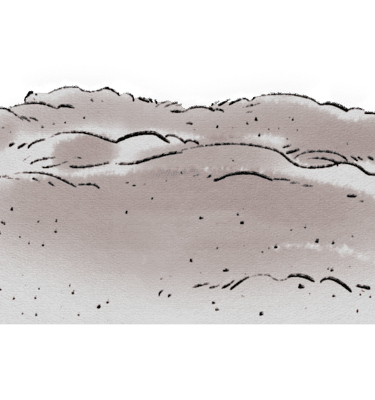
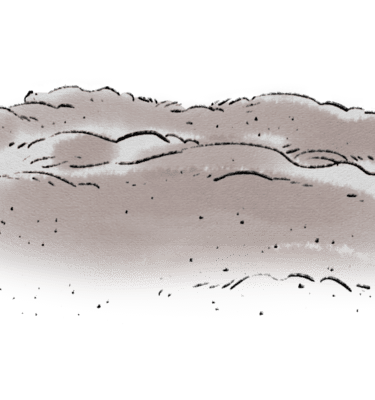
目前进度 分层取糟

diff --git a/assets/js/main.js b/assets/js/main.js
@@ -194,6 +194,13 @@ function main() {
                 id: 'jiaochixuanze' + i
             })
         }
+        for (var i = 0; i < 24; i++) {
+            manifest.push({
+                src: ossURL + "wannianzao/wannianzao" + i + ".png",
+                id: 'wannianzao_img' + i
+            })
+        }
+
     }
 
     //开始预加载
@@ -239,7 +246,7 @@ function main() {
 
         loadingH.gotoAndPlay("run" + parseInt((preload.progress * 100 | 0) / 10))
 
-        loadingS.y = (canvas.height - loadingS_animate._frameHeight * proportion) / 2 + (130 - (preload.progress * 80 | 0)) * proportion;
+        loadingS.y = (canvas.height - loadingS_animate._frameHeight * proportion) / 2 + (130 * proportion - (preload.progress * 80 | 0)) * proportion;
 
         // stage.addChild(background, pagebackground, pageTop, pageBottom)
         loadingContainer.addChild(loadingBeizi, loadingH, loadingS, loadingX, progressText);
@@ -812,7 +819,7 @@ function main() {
 
         var wentiText = new createjs.Text("点击选择正确的浓香窖池", "56px Arial", "#000");
         wentiText.x = (canvas.width - wentiText.getMeasuredWidth()) / 2;
-        wentiText.y = 9100;
+        wentiText.y = 9050;
         wentiText.shadow = new createjs.Shadow("#fff", 0, 0, 5);
         wentiText.alpha = 0;
 
@@ -862,12 +869,110 @@ function main() {
         next.y = 9700
         next.alpha = 0
 
-        var wanniancao = new createjs.Sprite(nongjiangchi_animate, "end");
-        wanniancao.scaleX = proportion;
-        wanniancao.scaleY = proportion;
-        wanniancao.x = (canvas.width - nongjiangchi_animate._frameWidth * proportion) / 2;
-        wanniancao.y = 9200;
-        wanniancao.framerate = 19;
+        /**
+         * 万年槽
+         */
+        var wannianzao_img = new Array();
+        for (var i = 0; i < 24; i++) {
+            wannianzao_img[i] = preload.getResult("wannianzao_img" + i);
+        }
+        var wannianzao_animate = new createjs.SpriteSheet({
+            "images": wannianzao_img,
+            "frames": {
+                width: 375,
+                height: 205,
+                spacing: 0,
+                count: 24
+            },
+            "animations": {
+                start: [0],
+                run: [0, 10, 'end', 0.3],
+                end: [10],
+                run2: [10, 21, 'end2', 0.3],
+                end2: [21],
+                run3: [21, 23, 'end3', 0.3],
+                end3: [23]
+            },
+            "framerate": 24
+        });
+        var wannianzao = new createjs.Sprite(wannianzao_animate, "start");
+        wannianzao.scaleX = proportion;
+        wannianzao.scaleY = proportion;
+        wannianzao.x = (canvas.width - wannianzao_animate._frameWidth * proportion) / 2;
+        wannianzao.y = 10500;
+        wannianzao.framerate = 24;
+
+        /**
+         * 黄泥
+         */
+        var huangni_img = new Array();
+        for (var i = 0; i < 18; i++) {
+            huangni_img[i] = ossURL + "huangni/huangni" + i + ".png";
+        }
+        var huangni_animate = new createjs.SpriteSheet({
+            "images": huangni_img,
+            "frames": {
+                width: 275,
+                height: 60,
+                spacing: 0,
+                count: 18
+            },
+            "animations": {
+                start: [0],
+                run: [0, 17, 'end', 0.4],
+                end: [17]
+            },
+            "framerate": 18
+        });
+        var huangni = new createjs.Sprite(huangni_animate, "start");
+        huangni.scaleX = proportion;
+        huangni.scaleY = proportion;
+        huangni.x = (canvas.width - huangni_animate._frameWidth * proportion + 10 * proportion) / 2;
+        huangni.y = 10470;
+        huangni.framerate = 18;
+
+        var tanceng1 = new createjs.Bitmap(ossURL + "tanceng1.png");
+        tanceng1.scaleX = 0;
+        tanceng1.scaleY = 0;
+        tanceng1.x = canvas.width / 2;
+        tanceng1.y = 9950;
+        tanceng1.alpha = 0;
+
+        /**
+         * 分层糟
+         */
+        var fencengzao_img = new Array();
+        for (var i = 0; i < 76; i++) {
+            fencengzao_img[i] = ossURL + "fencengzao/fencengzao" + i + ".png";
+        }
+        var fencengzao_animate = new createjs.SpriteSheet({
+            "images": fencengzao_img,
+            "frames": {
+                width: 375,
+                height: 205,
+                spacing: 0,
+                count: 76
+            },
+            "animations": {
+                start: [0],
+                run: [0, 18, 'end', 0.3],
+                end: [18],
+                run2: [18, 38, 'end2', 0.3],
+                end2: [38],
+                run3: [38, 57, 'end3', 0.3],
+                end3: [57],
+                run4: [57, 75, 'end4', 0.3],
+                end4: [75]
+            },
+            "framerate": 76
+        });
+        var fencengzao = new createjs.Sprite(fencengzao_animate, "start");
+        fencengzao.scaleX = proportion;
+        fencengzao.scaleY = proportion;
+        fencengzao.x = (canvas.width - fencengzao_animate._frameWidth * proportion) / 2;
+        fencengzao.y = 10500;
+        fencengzao.framerate = 76;
+        fencengzao.alpha = 0;
 
         /**
          * tween动画执行
@@ -1174,6 +1279,65 @@ function main() {
                 });
             });
 
+        wannianzaoFun = () => {
+            wannianzao.removeEventListener("click", wannianzaoFun);
+            wannianzao.gotoAndPlay("run3");
+            next.y = 10950;
+            next.alpha = 0;
+            createjs.Tween.get(tanceng1)
+                .wait(2000)
+                .to({
+                    scaleX: proportion * 0.5,
+                    scaleY: proportion * 0.5,
+                    x: (canvas.width - 500 * proportion * 0.5) / 2,
+                    y: 9800,
+                    alpha: 1
+                }, 2000)
+            createjs.Tween.get(next)
+                .wait(2000)
+                .to({
+                    alpha: 1
+                }, 2000)
+            next.addEventListener("click", nextFun2)
+        }
+
+        nj_animate_next = () => {
+            createjs.Tween.get(container)
+                .to({
+                    y: -9800
+                }, 2000)
+                .call(() => {
+                    huangni.gotoAndPlay("run");
+                    createjs.Tween.get(huangni)
+                        .wait(3000)
+                        .to({
+                            alpha: 0
+                        }, 1500)
+                    createjs.Tween.get(container)
+                        .wait(6000)
+                        .call(() => {
+                            wannianzao.gotoAndPlay("run");
+                        }, sineInOutEase)
+                        .wait(3000)
+                        .call(() => {
+                            wannianzao.gotoAndPlay("run2");
+                            wannianzao.addEventListener("click", wannianzaoFun)
+                        })
+                })
+        }
+        fc_animate_next = () => {
+            createjs.Tween.get(wannianzao)
+                .wait(2000)
+                .to({
+                    alpha: 0
+                }, 2000)
+            createjs.Tween.get(fencengzao)
+                .wait(2000)
+                .to({
+                    alpha: 1
+                }, 2000)
+        }
+
         nijiaoBtnFun = () => {
             nongjiangEnd("nijiao", "1")
         }
@@ -1212,7 +1376,7 @@ function main() {
                                             scaleX: proportion * 0.5,
                                             scaleY: proportion * 0.5,
                                             x: (canvas.width - 500 * proportion * 0.5) / 2,
-                                            y: 8450,
+                                            y: 8500,
                                             alpha: 1
                                         }, 2000)
                                         .call(() => {
@@ -1234,10 +1398,19 @@ function main() {
 
         nextFun = () => {
             next.removeEventListener("click", nextFun);
-            // createjs.Tween.get(container)
-            //     .to({
-            //         y: -9800
-            //     }, 2000)
+            nj_animate_next()
+        }
+        nextFun2 = () => {
+            next.removeEventListener("click", nextFun2);
+            createjs.Tween.get(next)
+                .to({
+                    alpha: 0
+                }, 1000)
+            createjs.Tween.get(tanceng1)
+                .to({
+                    alpha: 0
+                }, 1000)
+            fc_animate_next()
         }
         next.addEventListener("click", nextFun)
 
@@ -1248,7 +1421,7 @@ function main() {
             faxiaotong, gaizi, guandao, jiaoban_liuliang, zhengzhuText, zhengzhu2Text,
             liangshai, chuifeng, touliao, tanliangText, jiaquText, jiaqu2Text,
             nongjiangchi, wentiText, nijiaoBtn, shijiaoBtn, tanceng0, gutaifaxiaoText,
-            wanniancao,
+            wannianzao, huangni, tanceng1, fencengzao,
             next
         )
 
